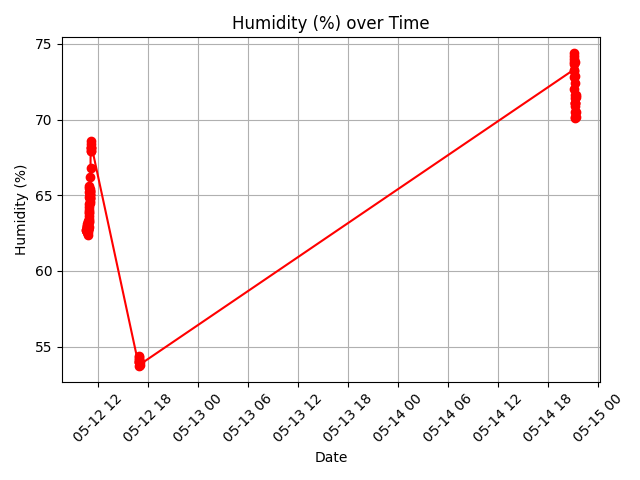
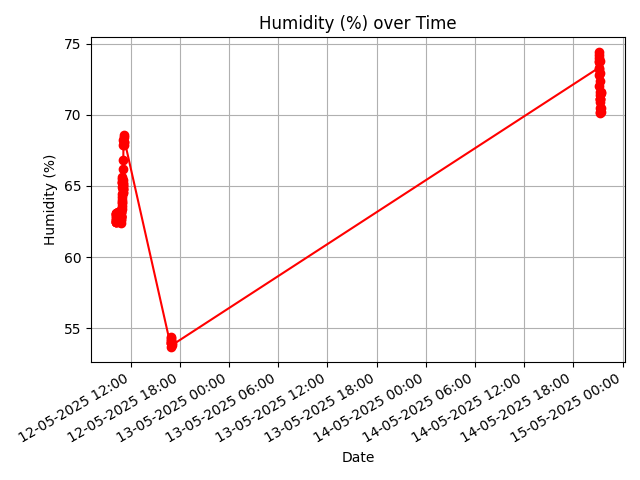
Final improvements to telegram bot

diff --git a/telegram_bot/telegram_bot.py b/telegram_bot/telegram_bot.py
@@ -39,14 +39,21 @@ class MyBot:
         self.authenticated_users = set()
         self.search_params = {}
 
-        self.environment_zones = {
-            "a": {
-                "name": "Zone A",
-                "api_url": "https://api.thingspeak.com/channels/2875299/feeds.json?api_key=BTP4K708D2767EMW&results=20",
-                "chart_url_temp": "https://thingspeak.com/channels/2875299/charts/1?bgcolor=%23ffffff&dynamic=true&type=line",
-                "chart_url_hum": "https://thingspeak.com/channels/2875299/charts/2?bgcolor=%23ffffff&dynamic=true&type=line"
+        # Retrieve data from telegram_bot_info.json
+        self.config_data = self.resource_info.get("config", [{}])[0]
+        self.thingspeak_api_key = self.config_data.get("thingspeak_api_key", "")
+        raw_zones = self.resource_info.get("environment_zones", {})
+        self.environment_zones = {}
+
+        for key, zone in raw_zones.items():
+            channel_id = zone["channel_id"]
+            self.environment_zones[key.lower()] = {
+                "name": zone["name"],
+                "api_url": f"https://api.thingspeak.com/channels/{channel_id}/feeds.json?api_key={self.thingspeak_api_key}&results=20",
+                "chart_url_temp": f"https://thingspeak.com/channels/{channel_id}/charts/1?bgcolor=%23ffffff&dynamic=true&type=line",
+                "chart_url_hum": f"https://thingspeak.com/channels/{channel_id}/charts/2?bgcolor=%23ffffff&dynamic=true&type=line"
             }
-        }
+
 
         self.bot = telepot.Bot(self.tokenBot)
         MessageLoop(self.bot, {'chat': self.on_chat_message, 'callback_query': self.on_callback_query}).run_as_thread()
@@ -217,7 +224,6 @@ class MyBot:
         params = self.search_params[chat_ID]
         mode = params["mode"]
 
-        # Simple helper to validate date format
         def validate_date_format(date_str):
             try:
                 datetime.strptime(date_str, "%d-%m-%Y")
@@ -228,44 +234,52 @@ class MyBot:
         if mode == "environment":
             zone_key = message.strip().lower()
             zone = self.environment_zones.get(zone_key)
-
             if not zone:
                 self.bot.sendMessage(chat_ID, "❌ Zone not found. Try again or type 'exit' to cancel.")
                 return
 
+            # Salva la zona scelta e chiedi quanti punti mostrare
+            self.search_params[chat_ID] = {
+                "mode": "environment_points",
+                "zone_key": zone_key
+            }
+            self.bot.sendMessage(chat_ID, "📊 How many recent points do you want to display in the chart? (max 500)")
+            return
+
+        elif mode == "environment_points":
+            if not message.isdigit():
+                self.bot.sendMessage(chat_ID, "⚠ Please enter a valid number.")
+                return
+
+            num_points = int(message)
+            MAX_POINTS = 500
+
+            if num_points < 1 or num_points > MAX_POINTS:
+                self.bot.sendMessage(chat_ID, f"⚠ Please enter a number between 1 and {MAX_POINTS}.")
+                return
+
+            zone_key = params["zone_key"]
+            zone = self.environment_zones.get(zone_key)
+
+            if not zone:
+                self.bot.sendMessage(chat_ID, "❌ Zone not found. Try again or type 'exit'.")
+                return
+
             try:
-                response = requests.get(zone["api_url"])
-                if response.status_code == 200:
-                    data = response.json()
-                    feeds = data.get("feeds", [])
-                    temperature = humidity = None
-                    for entry in reversed(feeds):
-                        if temperature is None and entry.get("field1"):
-                            temperature = entry["field1"]
-                        if humidity is None and entry.get("field2"):
-                            humidity = entry["field2"]
-                        if temperature and humidity:
-                            break
-                    if temperature or humidity:
-                        self.bot.sendMessage(chat_ID,
-                            f"📍 *{zone['name']}*\n"
-                            f"🌡 Temperature: *{temperature or 'N/A'}°C*\n"
-                            f"💧 Humidity: *{humidity or 'N/A'}%*",
-                        parse_mode="Markdown")
-                        temp_path = os.path.join(os.path.dirname(__file__),"charts", "temp_chart.png")
-                        generate_chart(api_key="BTP4K708D2767EMW", field=1, ylabel="Temperature (°C)", filename=temp_path)
-                        with open(temp_path, "rb") as temp_img:
-                            self.bot.sendPhoto(chat_ID, temp_img, caption="📈 Temperature trend")
-                        hum_path = os.path.join(os.path.dirname(__file__),"charts", "hum_chart.png")
-                        generate_chart(api_key="BTP4K708D2767EMW", field=2, ylabel="Humidity (%)", filename=hum_path)
-                        with open(hum_path, "rb") as hum_img:
-                            self.bot.sendPhoto(chat_ID, hum_img, caption="📈 Humidity trend")
-                    else:
-                        self.bot.sendMessage(chat_ID, "No valid environmental data.")
-                else:
-                    self.bot.sendMessage(chat_ID, "❌ Failed to fetch data.")
+                chart_api_key = self.thingspeak_api_key
+
+                temp_path = os.path.join(os.path.dirname(__file__), "charts", "temp_chart.png")
+                generate_chart(api_key=chart_api_key, field=1, ylabel="Temperature (°C)", filename=temp_path, results=num_points)
+                with open(temp_path, "rb") as temp_img:
+                    self.bot.sendPhoto(chat_ID, temp_img, caption=f"📈 Temperature trend (last {num_points} points)")
+
+                hum_path = os.path.join(os.path.dirname(__file__), "charts", "hum_chart.png")
+                generate_chart(api_key=chart_api_key, field=2, ylabel="Humidity (%)", filename=hum_path, results=num_points)
+                with open(hum_path, "rb") as hum_img:
+                    self.bot.sendPhoto(chat_ID, hum_img, caption=f"📈 Humidity trend (last {num_points} points)")
+
             except Exception as e:
-                self.bot.sendMessage(chat_ID, f"❌ Error: {e}")
+                self.bot.sendMessage(chat_ID, f"❌ Error generating charts: {e}")
 
             self.search_params.pop(chat_ID, None)
             self.send_main_menu(chat_ID)
@@ -294,18 +308,27 @@ class MyBot:
                 if not validate_date_format(message):
                     self.bot.sendMessage(chat_ID, "⚠ Invalid date format. Use DD-MM-YYYY.")
                     return
-                params["from_date"] = message
+                ts = time.mktime(datetime.strptime(message, "%d-%m-%Y").replace(hour=0, minute=0, second=0).timetuple())
+                params["from_date"] = str(int(ts))
                 self.bot.sendMessage(chat_ID, "📅 Enter end date (DD-MM-YYYY):")
+                return
 
-            elif "to_date" not in params:
+            if "to_date" not in params:
                 if not validate_date_format(message):
                     self.bot.sendMessage(chat_ID, "⚠ Invalid date format. Use DD-MM-YYYY.")
                     return
-                params["to_date"] = message
-                self.execute_search(chat_ID, {
-                    "from": params["from_date"] + "T00:00:00",
-                    "to": params["to_date"] + "T23:59:59"
-                }, repeat=True)
+                ts = time.mktime(datetime.strptime(message, "%d-%m-%Y").replace(hour=23, minute=59, second=59).timetuple())
+                params["to_date"] = str(int(ts))
+
+            if "from_date" in params and "to_date" in params:
+                try:
+                    self.execute_search(chat_ID, {
+                        "from": params["from_date"],
+                        "to": params["to_date"]
+                    }, repeat=True)
+                except Exception as e:
+                    self.bot.sendMessage(chat_ID, f"❌ Error: {e}")
+                return
 
     def execute_search(self, chat_ID, filters, repeat=False):
         db_url = self.get_db_connector_url()
@@ -315,18 +338,6 @@ class MyBot:
 
         if not repeat:
             self.search_params.pop(chat_ID, None)
-        else:
-            if "from" in filters and "to" in filters:
-                self.search_params[chat_ID] = {
-                    "mode": "date_range",
-                    "from_date": filters["from"][:10]
-                }
-                self.bot.sendMessage(chat_ID, "📝 Enter new end date (DD-MM-YYYY), type 'edit start' to change start date, or 'exit' to stop:")
-
-                db_url = self.get_db_connector_url()
-                if not db_url:
-                    self.bot.sendMessage(chat_ID, "Database Connector unavailable.")
-                    return
 
         url = db_url.rstrip("/") + "/?" + urlencode(filters)
 
@@ -340,7 +351,7 @@ class MyBot:
                         for x in violations
                     ])
                     self.search_results = getattr(self, "search_results", {})
-                    self.search_results[chat_ID] = violations  # 🔸 Save results for export
+                    self.search_results[chat_ID] = violations  # Save results for export
                 else:
                     reply = "✅ No violations found."
                     self.search_results = getattr(self, "search_results", {})
@@ -359,15 +370,21 @@ class MyBot:
             ])
             self.bot.sendMessage(chat_ID, "📄 Export options:", reply_markup=keyboard)
 
-        if chat_ID in self.authenticated_users:
+        # Re-prompt after results if date_range mode
+        if repeat and "from" in filters and "to" in filters:
+            self.search_params[chat_ID] = {
+                "mode": "date_range",
+                "from_date": filters["from"][:10]
+            }
+            self.bot.sendMessage(chat_ID, "📝 Enter new end date (DD-MM-YYYY), type 'edit start' to change start date, or 'exit' to stop:")
+
+        elif chat_ID in self.authenticated_users:
             if "plate" in filters:
                 self.search_params[chat_ID] = {"mode": "plate"}
                 self.bot.sendMessage(chat_ID, "🔁 Enter another license plate or type 'exit' to stop:")
             elif "station" in filters:
                 self.search_params[chat_ID] = {"mode": "semaphore"}
                 self.bot.sendMessage(chat_ID, "🔁 Enter another semaphore ID or type 'exit' to stop:")
-            elif "from" in filters:
-                self.search_params[chat_ID] = {"mode": "date_range", "from_date": filters["from"][:10]}
         else:
             self.search_params[chat_ID] = {"mode": "plate_only"}
             self.bot.sendMessage(chat_ID, "🔁 Enter another license plate or type 'exit' to stop:")

diff --git a/telegram_bot/dynamic_charts.py b/telegram_bot/dynamic_charts.py
@@ -1,15 +1,29 @@
 import requests
 import matplotlib.pyplot as plt
 from datetime import datetime
+import matplotlib.dates as mdates
+import os
+import json
 
-def fetch_thingspeak_data(api_key, field, results=200):
-    url = f"https://api.thingspeak.com/channels/2875299/fields/{field}.json?api_key={api_key}&results={results}"
+script_dir = os.path.dirname(os.path.abspath(__file__))
+info_path = os.path.join(script_dir, "telegram_bot_info.json")
+
+with open(info_path, "r") as f:
+    info_data = json.load(f)
+
+config = info_data["config"][0]
+thingspeak_api_key = config.get("thingspeak_api_key", "")
+channel_id = info_data["environment_zones"]["a"]["channel_id"] # For the moment it is only configured for zone A
+
+def fetch_thingspeak_data(field, results=50):
+    url = f"https://api.thingspeak.com/channels/{channel_id}/fields/{field}.json?api_key={thingspeak_api_key}&results={results}"
     r = requests.get(url)
     r.raise_for_status()
     return r.json()["feeds"]
 
-def generate_chart(api_key, field, ylabel, filename):
-    feeds = fetch_thingspeak_data(api_key, field)
+def generate_chart(field, ylabel, filename, results=50):
+    feeds = fetch_thingspeak_data(field, results=results)
+
     x = [datetime.strptime(f["created_at"], "%Y-%m-%dT%H:%M:%SZ") for f in feeds if f.get(f"field{field}")]
     y = [float(f[f"field{field}"]) for f in feeds if f.get(f"field{field}")]
 
@@ -19,7 +33,9 @@ def generate_chart(api_key, field, ylabel, filename):
     plt.xlabel("Date")
     plt.ylabel(ylabel)
     plt.grid(True)
+    plt.gca().xaxis.set_major_formatter(mdates.DateFormatter('%d-%m-%Y %H:%M'))
     plt.xticks(rotation=45)
+    plt.gcf().autofmt_xdate()
     plt.tight_layout()
     plt.savefig(filename)
     plt.close()

diff --git a/database/database_adaptor.py b/database/database_adaptor.py
@@ -74,12 +74,10 @@ class DatabaseAdaptor:
 
         if from_date and to_date:
             try:
-                from_ts = str(time.mktime(time.strptime(from_date, "%d-%m-%YT%H:%M:%S")))
-                to_ts = str(time.mktime(time.strptime(to_date, "%d-%m-%YT%H:%M:%S")))
                 query += " AND CAST(date AS REAL) BETWEEN ? AND ?"
-                params.extend([from_ts, to_ts])
+                params.extend([float(from_date), float(to_date)])
             except Exception as e:
-                print(f"[ERROR] Invalid date format: {e}")
+                print(f"[ERROR] Invalid timestamp format: {e}")
 
         return query, params
 
